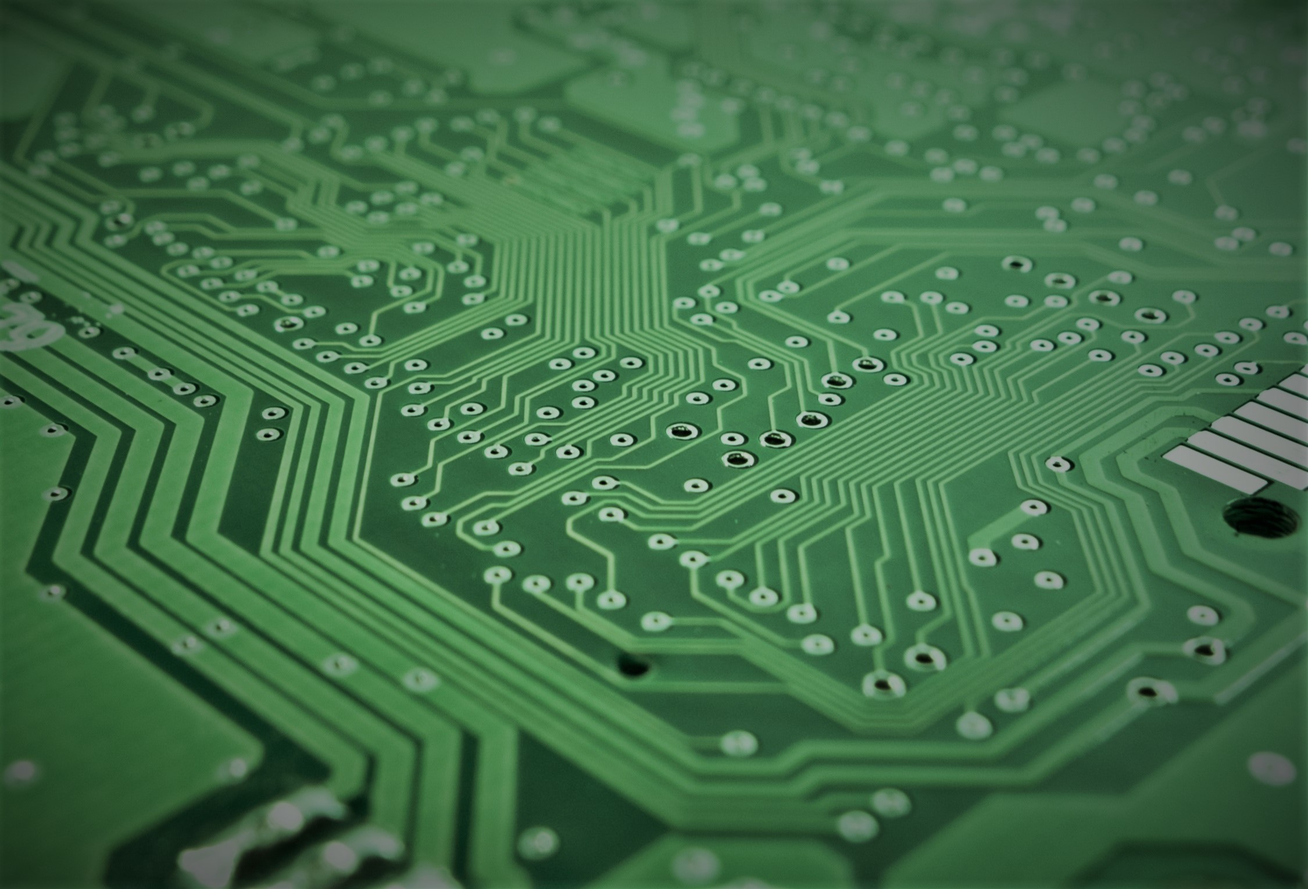
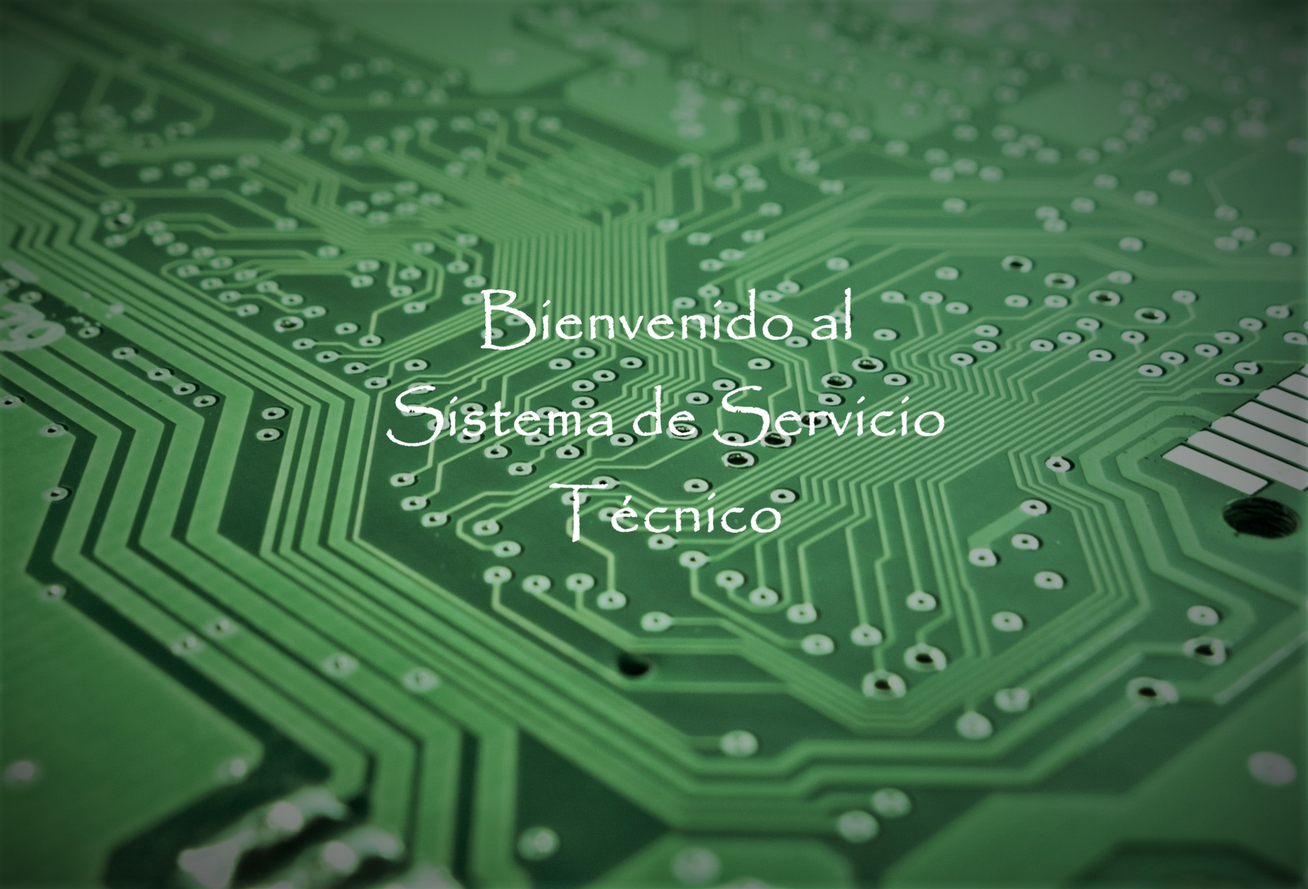
change home background

Changed region(s): [[0.28, 0.4303, 0.7467, 0.5226], [0.3733, 0.3074, 0.6533, 0.3996], [0.4356, 0.5226, 0.5911, 0.6148]]

diff --git a/css/estilo.css b/css/estilo.css
@@ -133,10 +133,21 @@ body{
 /*HOME*/
 .fondo_home{
     background-image: url(../img/fondo.jpg);
+    background-position: center center;
+    /* Background image doesn't tile */
     background-repeat: no-repeat;
+    /* Background image is fixed in the viewport so that it doesn't move when
+     the content's height is greater than the image's height */
+    background-attachment: fixed;
+    background-size: cover;
+    /* Set a background color that will be displayed
+     while the background image is loading */
+    background-color: #464646;
+
+    /*background-repeat: no-repeat;
     background-size: 100%;
     background-position: left;
-    background-clip: border-box;
+    background-clip: border-box;*/
 }
 .subcontenedor {
   /* Permalink - use to edit and share this gradient: http://colorzilla.com/gradient-editor/#3eccd1+0,02a2ce+100 */
